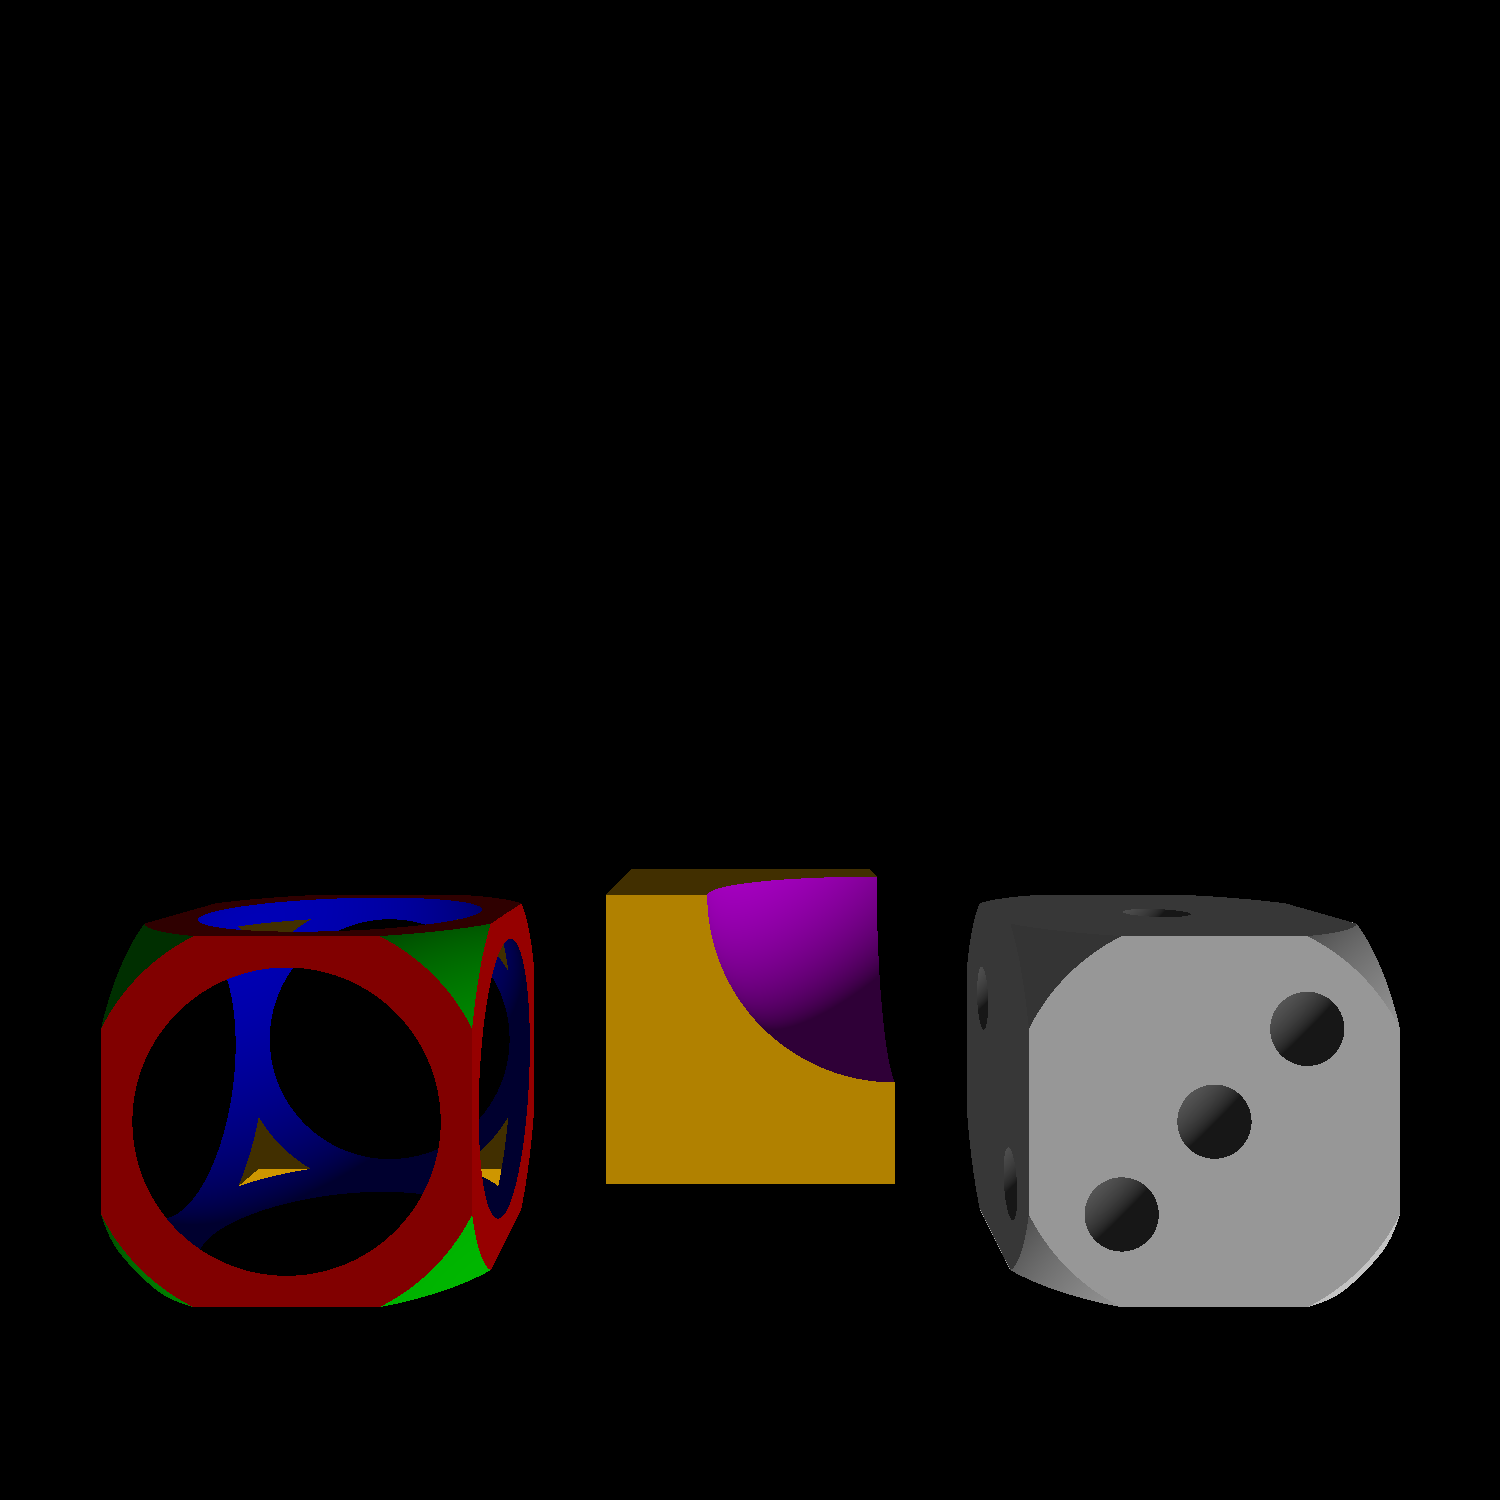
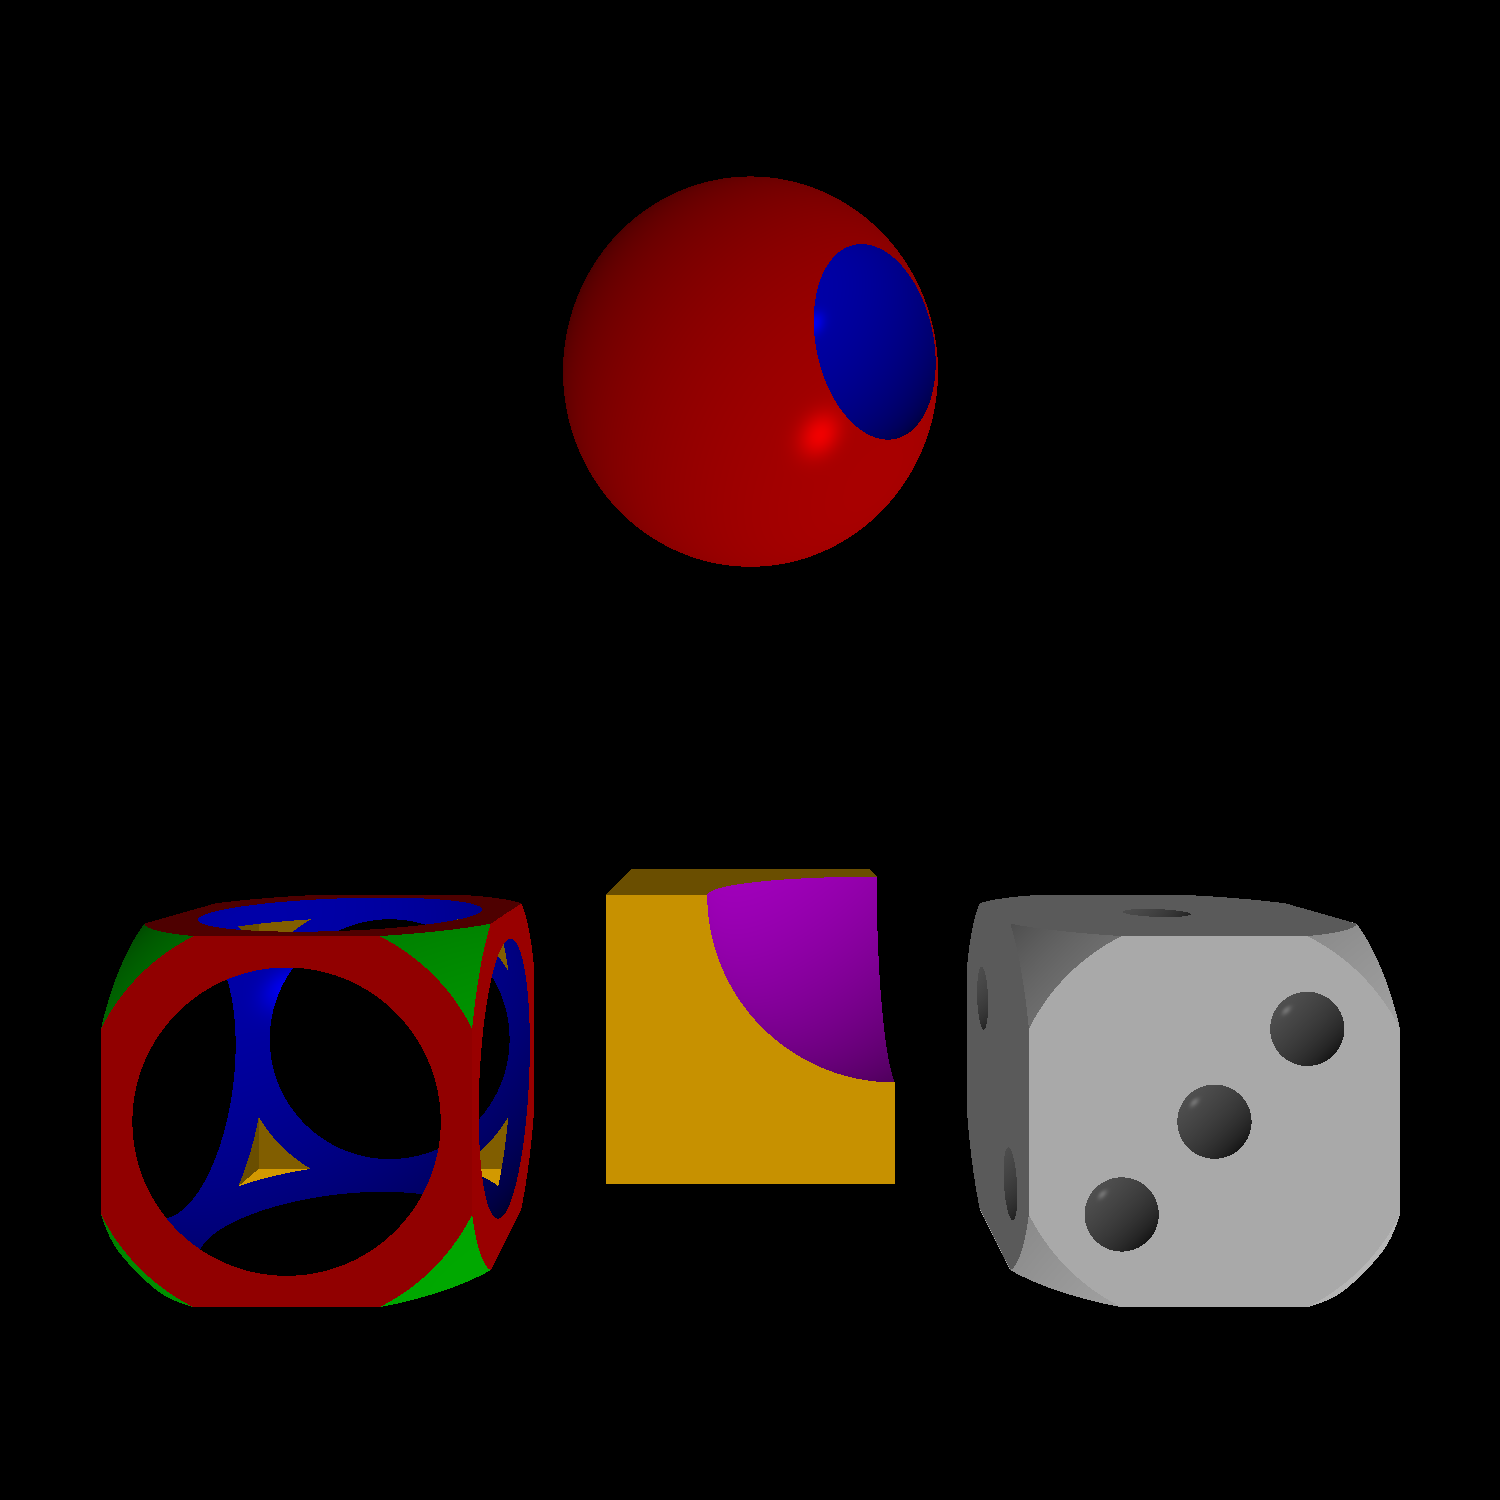
directional phong illumination

diff --git a/src/cgg/RayTracer.java b/src/cgg/RayTracer.java
@@ -7,6 +7,7 @@ import static tools.Functions.*;
 import tools.*;
 import static cgg.Math.*;
 import cgg.geom.*;
+import cgg.lght.*;
 import cgg.a02.Ray;
 import cgg.a02.Hit;
 import cgg.a03.Scene;
@@ -31,10 +32,10 @@ public class RayTracer implements Sampler
 			Queue<HitTuple> __Proc = g.intersect(__Ray);
 			__Hits = recentGeometry(__Hits,__Proc);
 		}
-		return (__Hits.size()>0) ? _shade(__Hits.peek().front()) : background;
+		return (__Hits.size()>0) ? _shadePhong(__Hits.peek().front()) : background;
 	}
 
-	public Color _shade(Hit hit)
+	private Color _shade(Hit hit)
 	{
 		Vec3 lightDir = normalize(vec3(1,1,.7));
 		Color ambient = multiply(.05,hit.colour());
@@ -42,7 +43,39 @@ public class RayTracer implements Sampler
 		return add(ambient,diffuse);
 	}
 
-	public Color _shadeNormals(Hit hit)
+	private Color _shadePhong(Hit hit)
+	{
+		Color __Result = color(0,0,0);
+		for (PhongIllumination light : scene.phong_lights)
+		{
+			// precalculations
+			Vec3 __LightDirection = light.direction(hit.position());
+			Color __LightIntensity = light.intensity(hit.position());
+			Color __Albedo = multiply(__LightIntensity,.4);
+
+			// ambient component
+			Color __Ambient = multiply(hit.colour(),__Albedo);
+
+			// diffuse component
+			double __Attitude = dot(hit.normal(),__LightDirection);
+			Color __Diffuse = multiply(hit.colour(),multiply(__Albedo,__Attitude));
+			__Result = add(__Result,__Ambient,__Diffuse);
+
+			// specular component
+			if (__Attitude>0)
+			{
+				Vec3 r = subtract(multiply(hit.normal(),2*dot(__LightDirection,hit.normal())),__LightDirection);
+				r = normalize(r);
+				Vec3 v = normalize(subtract(scene.camera.position(),hit.position()));
+				Color __IntensitySpecular = multiply(__LightIntensity,pow(max(dot(r,v),0),50));
+				Color __Specular = multiply(hit.colour(),__IntensitySpecular);
+				__Result = add(__Result,__Specular);
+			}
+		}
+		return clamp(__Result);
+	}
+
+	private Color _shadeNormals(Hit hit)
 	{
 		return color(hit.normal());
 	}

diff --git a/src/cgg/a03/Scene.java b/src/cgg/a03/Scene.java
@@ -5,20 +5,30 @@ import static tools.Functions.*;
 import tools.*;
 import cgg.*;
 import cgg.geom.*;
+import cgg.lght.*;
 import cgg.a02.Camera;
 
 public class Scene
 {
 	public Camera camera;
 	public ArrayList<Geometry> objects;
+	public ArrayList<PhongIllumination> phong_lights;
 
 	public Scene(int width,int height)
 	{
+		// projection
 		camera = new Camera(vec3(0,0,0),60.,width,height);
+
+		// geometry
 		objects = new ArrayList<>();
 		_childsplay();
 		_die();
 		_yummy();
+		_deathstar();
+
+		// lighting
+		phong_lights = new ArrayList<>();
+		phong_lights.add(new DirectionalLight(vec3(1,1,.7),color(1,1,1),1));
 	}
 
 	private void _childsplay()
@@ -69,8 +79,9 @@ public class Scene
 
 	private void _deathstar()
 	{
-		Sphere sphere0 = new Sphere(vec3(-.5,0,-2),1.,color(.5,0,0));
-		Sphere sphere1 = new Sphere(vec3(0,0,-1.5),.5,color(0,0,.5));
+		Vec3 __Position = vec3(0,-2,-7);
+		Sphere sphere0 = new Sphere(__Position,1.,color(.5,0,0));
+		Sphere sphere1 = new Sphere(add(__Position,vec3(.5,0,.5)),.5,color(0,0,.5));
 		Complex complex = new Complex(sphere0,sphere1,JoinOperation.DIFFERENCE);
 		objects.add(complex);
 	}

diff --git a/src/cgg/lght/DirectionalLight.java b/src/cgg/lght/DirectionalLight.java
@@ -1,0 +1,29 @@
+package cgg.lght;
+
+import static tools.Functions.*;
+import tools.*;
+
+
+public class DirectionalLight implements PhongIllumination
+{
+	private Vec3 direction;
+	private Color colour;
+	private double intensity;
+
+	public DirectionalLight(Vec3 direction,Color colour,double intensity)
+	{
+		this.direction = normalize(direction);
+		this.colour = colour;
+		this.intensity = intensity;
+	}
+
+	public Vec3 direction(Vec3 position)
+	{
+		return direction;
+	}
+
+	public Color intensity(Vec3 position)
+	{
+		return multiply(colour,intensity);
+	}
+}

diff --git a/src/cgg/lght/PhongIllumination.java b/src/cgg/lght/PhongIllumination.java
@@ -1,0 +1,10 @@
+package cgg.lght;
+
+import tools.*;
+
+
+public interface PhongIllumination
+{
+	Vec3 direction(Vec3 position);
+	Color intensity(Vec3 position);
+}
